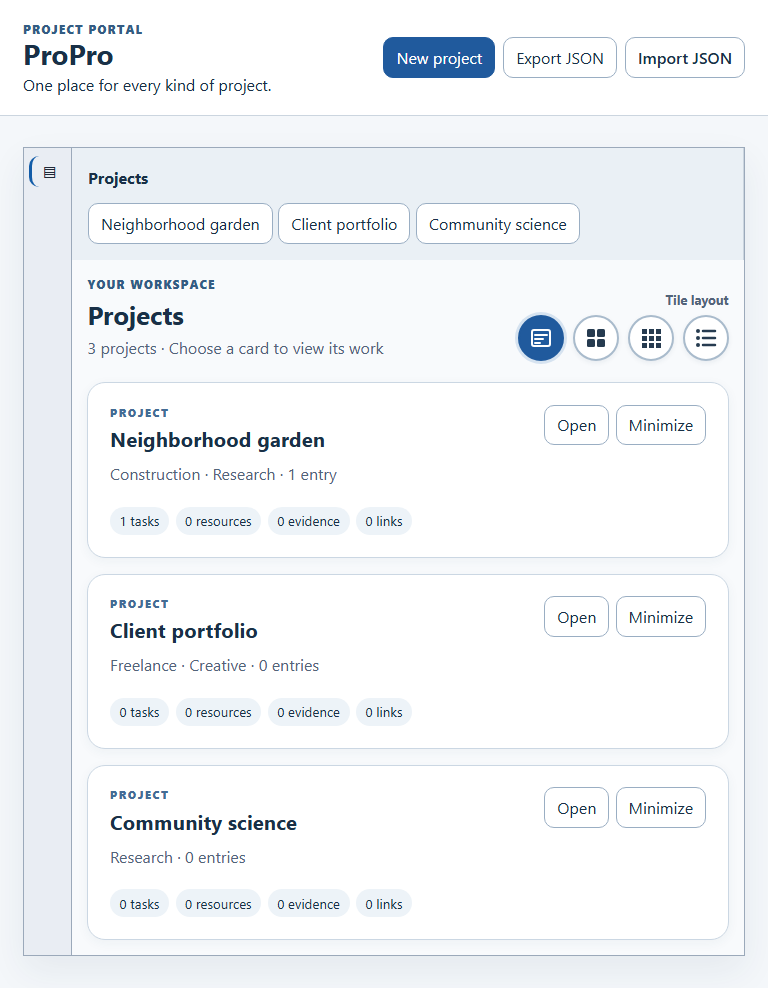
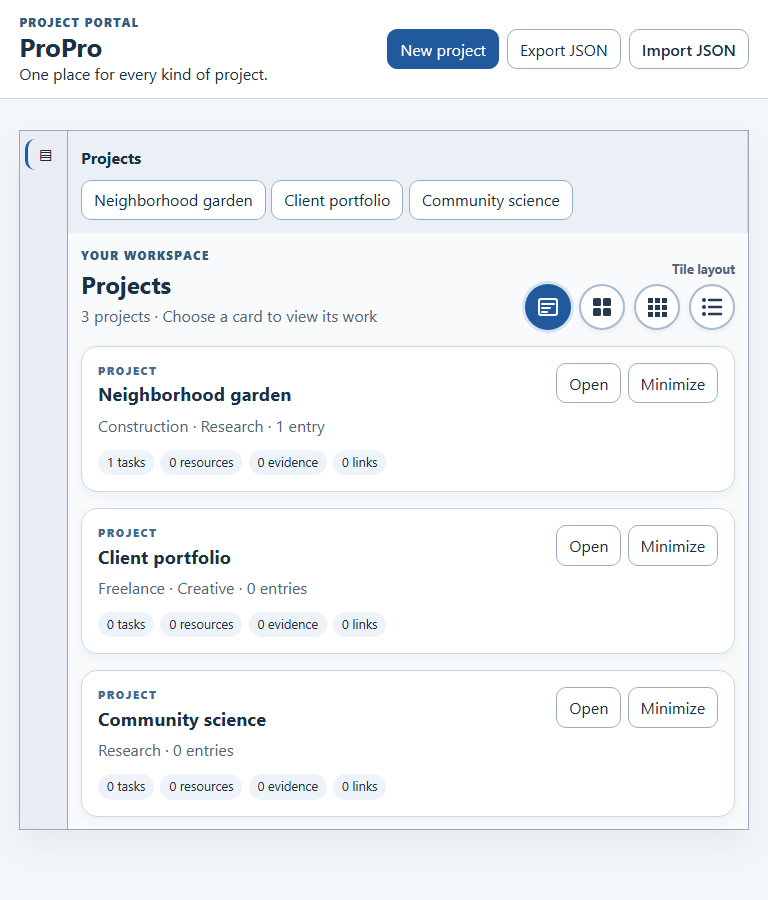
style(propro): tighten dashboard spacing and record integration ideas
Change-Level: RUN

Dev-Docs: updated

Reason: Owner feedback requested a smaller visual scale and identified future calendar, chart, and feed capabilities.

Validation: npm test; Chromium browser 5/5; WebKit browser 5/5; visual inspection at 375/768/1280/1920

diff --git a/styles.css b/styles.css
@@ -3,25 +3,25 @@ body { margin:0; color:var(--ink); background:#f4f7fa; }
 button,input { font:inherit; } button { cursor:pointer; border:1px solid #9aaec3; background:white; color:var(--ink); border-radius:10px; padding:.48rem .75rem; } button:hover { background:#e9f1f9; }
 button:focus-visible, input:focus-visible, .import-label:focus-within { outline:3px solid #135eaa; outline-offset:2px; }
 .primary { background:var(--blue); border-color:var(--blue); color:white; } .primary:hover { background:#164779; }
-.site-header { display:flex; align-items:center; justify-content:space-between; gap:1rem; flex-wrap:wrap; padding:1.2rem clamp(.8rem,3vw,2.5rem); background:#fff; border-bottom:1px solid var(--border); }
-.site-header h1 { margin:0; font-size:clamp(1.75rem,3vw,2.3rem); line-height:1.1; } .site-header p { margin:.2rem 0 0; } .eyebrow { margin:0 0 .25rem; text-transform:uppercase; letter-spacing:.12em; color:#335c84; font-size:.72rem; font-weight:800; }
+.site-header { display:flex; align-items:center; justify-content:space-between; gap:1rem; flex-wrap:wrap; padding:.8rem clamp(.8rem,2.5vw,2rem); background:#fff; border-bottom:1px solid var(--border); }
+.site-header h1 { margin:0; font-size:clamp(1.6rem,2.5vw,2rem); line-height:1.1; } .site-header p { margin:.15rem 0 0; } .eyebrow { margin:0 0 .2rem; text-transform:uppercase; letter-spacing:.12em; color:#335c84; font-size:.72rem; font-weight:800; }
 .header-actions,.row { display:flex; flex-wrap:wrap; align-items:center; gap:.5rem; } .import-label { display:inline-flex; align-items:center; position:relative; border:1px solid #9aaec3; background:#fff; border-radius:10px; padding:.48rem .75rem; cursor:pointer; } .import-label input { position:absolute; inset:0; width:100%; opacity:0; cursor:pointer; }
 .status { min-height:1.4rem; margin:.25rem clamp(.8rem,3vw,2.5rem); color:#245d3d; }
-#workbench { margin:0 clamp(.8rem,3vw,2.5rem) 2rem; min-height:calc(100vh - 180px); box-shadow:0 15px 35px #203e5a12; }
-#explorer { background:#eaf0f5; padding:1rem; color:var(--ink); border-right:1px solid var(--border); } #explorer h2 { margin:.15rem 0 .85rem; font-size:1rem; } .nav-project { display:block; width:100%; text-align:left; margin:.25rem 0; overflow-wrap:anywhere; } .nav-project[aria-current=true] { background:#d5e7fa; border-color:var(--blue); font-weight:700; } .hint,.muted { color:var(--muted); }
-#content.cockpit-workbench__content { background:#f8fafc; padding:clamp(.8rem,2vw,1.7rem); color:var(--ink); }
-.content-head { display:flex; align-items:end; justify-content:space-between; gap:1rem; flex-wrap:wrap; margin-bottom:1.3rem; } .content-head h2 { margin:0; font-size:clamp(1.6rem,2.5vw,2rem); } .content-head p { margin:.15rem 0; }
+#workbench { margin:0 clamp(.8rem,2.5vw,2rem) 2rem; min-height:0; box-shadow:0 15px 35px #203e5a12; }
+#explorer { background:#eaf0f5; padding:.8rem; color:var(--ink); border-right:1px solid var(--border); } #explorer h2 { margin:.15rem 0 .65rem; font-size:1rem; } .nav-project { display:block; width:100%; text-align:left; margin:.25rem 0; overflow-wrap:anywhere; } .nav-project[aria-current=true] { background:#d5e7fa; border-color:var(--blue); font-weight:700; } .hint,.muted { color:var(--muted); }
+#content.cockpit-workbench__content { background:#f8fafc; padding:clamp(.8rem,1.5vw,1.25rem); color:var(--ink); }
+.content-head { display:flex; align-items:end; justify-content:space-between; gap:1rem; flex-wrap:wrap; margin-bottom:1rem; } .content-head h2 { margin:0; font-size:clamp(1.5rem,2.2vw,1.75rem); } .content-head p { margin:.15rem 0; }
 .layout-picker { display:grid; gap:.35rem; justify-items:end; } .layout-picker__label { color:var(--muted); font-size:.8rem; font-weight:700; } .view-switch { display:flex; gap:.55rem; flex-wrap:wrap; } .view-switch button { display:grid; place-items:center; width:46px; height:46px; padding:0; border:2px solid #a9bbcc; border-radius:50%; background:#fff; color:#263b50; box-shadow:0 2px 5px #203e5a12; } .view-switch button:hover { background:#e5f0fb; border-color:var(--blue); } .view-switch button[aria-pressed=true] { background:var(--blue); border-color:var(--blue); color:#fff; box-shadow:0 0 0 3px #2d72ba2b; } .view-switch svg { display:block; width:24px; height:24px; fill:currentColor; }
 .cockpit-workbench .view-switch button[aria-pressed=true]:hover { background:var(--blue); color:#fff; }
 .cards { display:grid; gap:1rem; grid-template-columns:repeat(auto-fit,minmax(min(100%,330px),1fr)); }
 .cards[data-mode=grid] { grid-template-columns:repeat(auto-fill,minmax(min(100%,240px),1fr)); }
 .cards[data-mode=mini] { grid-template-columns:repeat(auto-fill,minmax(min(100%,235px),1fr)); }
 .cards[data-mode=list] { grid-template-columns:1fr; gap:.55rem; }
-.project-card { min-width:0; background:#fff; border:1px solid #cbd7e3; border-radius:18px; padding:1.35rem; box-shadow:0 3px 12px #2d49640d; }
-.project-card[data-selected=true] { border:2px solid var(--blue); padding:calc(1.35rem - 1px); box-shadow:0 0 0 3px #2d72ba25; }
+.project-card { min-width:0; background:#fff; border:1px solid #cbd7e3; border-radius:16px; padding:1rem; box-shadow:0 3px 12px #2d49640d; }
+.project-card[data-selected=true] { border:2px solid var(--blue); padding:calc(1rem - 1px); box-shadow:0 0 0 3px #2d72ba25; }
 .project-card:hover { box-shadow:0 7px 22px #2d496420; }
-.card-main { display:flex; justify-content:space-between; gap:.8rem; align-items:start; } .card-copy { min-width:0; } .card-kicker { display:block; font-size:.68rem; letter-spacing:.15em; font-weight:800; color:#436c95; } .project-card h3 { font-size:1.28rem; line-height:1.2; overflow-wrap:anywhere; margin:.4rem 0 .65rem; } .card-summary { color:var(--muted); margin:0; overflow-wrap:anywhere; }
-.card-actions { display:flex; flex-wrap:wrap; gap:.4rem; justify-content:end; } .card-actions button { white-space:nowrap; } .card-meta { display:flex; flex-wrap:wrap; gap:.4rem; margin-top:1.35rem; } .card-meta span { background:#edf3f8; border-radius:999px; padding:.28rem .6rem; font-size:.83rem; }
+.card-main { display:flex; justify-content:space-between; gap:.8rem; align-items:start; } .card-copy { min-width:0; } .card-kicker { display:block; font-size:.68rem; letter-spacing:.15em; font-weight:800; color:#436c95; } .project-card h3 { font-size:1.15rem; line-height:1.2; overflow-wrap:anywhere; margin:.3rem 0 .5rem; } .card-summary { color:var(--muted); margin:0; overflow-wrap:anywhere; }
+.card-actions { display:flex; flex-wrap:wrap; gap:.4rem; justify-content:end; } .card-actions button { white-space:nowrap; } .card-meta { display:flex; flex-wrap:wrap; gap:.4rem; margin-top:.8rem; } .card-meta span { background:#edf3f8; border-radius:999px; padding:.22rem .55rem; font-size:.8rem; }
 .cards[data-mode=mini] .project-card,.cards[data-mode=grid] .project-card { padding:.9rem; border-radius:15px; } .cards[data-mode=mini] .project-card[data-selected=true],.cards[data-mode=grid] .project-card[data-selected=true] { padding:calc(.9rem - 1px); } .cards[data-mode=mini] .card-main,.cards[data-mode=grid] .card-main { display:block; } .cards[data-mode=mini] .card-actions,.cards[data-mode=grid] .card-actions { justify-content:start; margin-top:.7rem; } .cards[data-mode=mini] .card-meta { display:none; }
 .cards[data-mode=list] .project-card { padding:.7rem 1rem; border-radius:12px; } .cards[data-mode=list] .project-card[data-selected=true] { padding:calc(.7rem - 1px) calc(1rem - 1px); } .cards[data-mode=list] .card-main { align-items:center; } .cards[data-mode=list] .project-card h3 { font-size:1rem; margin:.1rem 0; } .cards[data-mode=list] .card-meta { display:none; }
 .project-card.minimized { background:#f2f6fa; } .project-card.minimized .card-summary,.project-card.minimized .card-meta { display:none; }

diff --git a/docs/PRODUCT-CHARTER.md b/docs/PRODUCT-CHARTER.md
@@ -39,3 +39,12 @@ Do not build a full ERP, accounting package, laboratory information system, IDE,
 
 ## Product hypothesis
 Adaptive project workspaces plus an explainable relationship graph and evidence-backed impact analysis could differentiate ProPro. This is a hypothesis requiring user and competitor validation, not an established market fact.
+
+## Owner feedback — candidate follow-up capabilities (2026-11-05)
+
+- Make the dashboard feel less oversized while retaining legible controls and the large rounded card default. Validate compact spacing at phone, tablet and desktop widths.
+- Give ProPro its own calendar for project tasks, milestones and deadlines. Evaluate optional connections to Outlook, Google Calendar and Proton Calendar, with explicit account permission and predictable synchronization behavior. A project should remain usable without any provider connection.
+- Add Gantt and other timeline/graph views derived from the same universal project records, so changing a view does not create a second source of truth.
+- Consider optional RSS feeds as project resources or updates, with clear source attribution and user control over refresh.
+
+These are candidate Roadmap B/C capabilities, not a change to the current MVP exit criteria. Validate user workflows and integration feasibility before selecting provider APIs or implementation order.

diff --git a/docs/PROP-CKP-001B-IMPLEMENTATION.md b/docs/PROP-CKP-001B-IMPLEMENTATION.md
@@ -32,6 +32,8 @@ The remote documentation branches `docs/prop-ckp-001-adaptive-workspace` (`d551d
 
 Follow-up presentation change: the four text layout tabs were replaced with original inline SVG icon buttons inspired by the owner's references. The selector keeps the same saved modes and exposes accessible labels, hover titles, focus outlines and `aria-pressed` state. The screenshots above reflect the icon selector.
 
+Owner feedback on scale led to a compact spacing pass on 2026-11-05: the header, dashboard gutters and card padding were reduced, and the workbench now fits its content instead of filling a tall empty desktop region. The four requested viewport screenshots and direct Edge file screenshot were refreshed. Card content and minimum touch target sizes remain legible.
+
 ## Open gates
 
 - Human owner acceptance of the actual running UI and task-based usability review.
